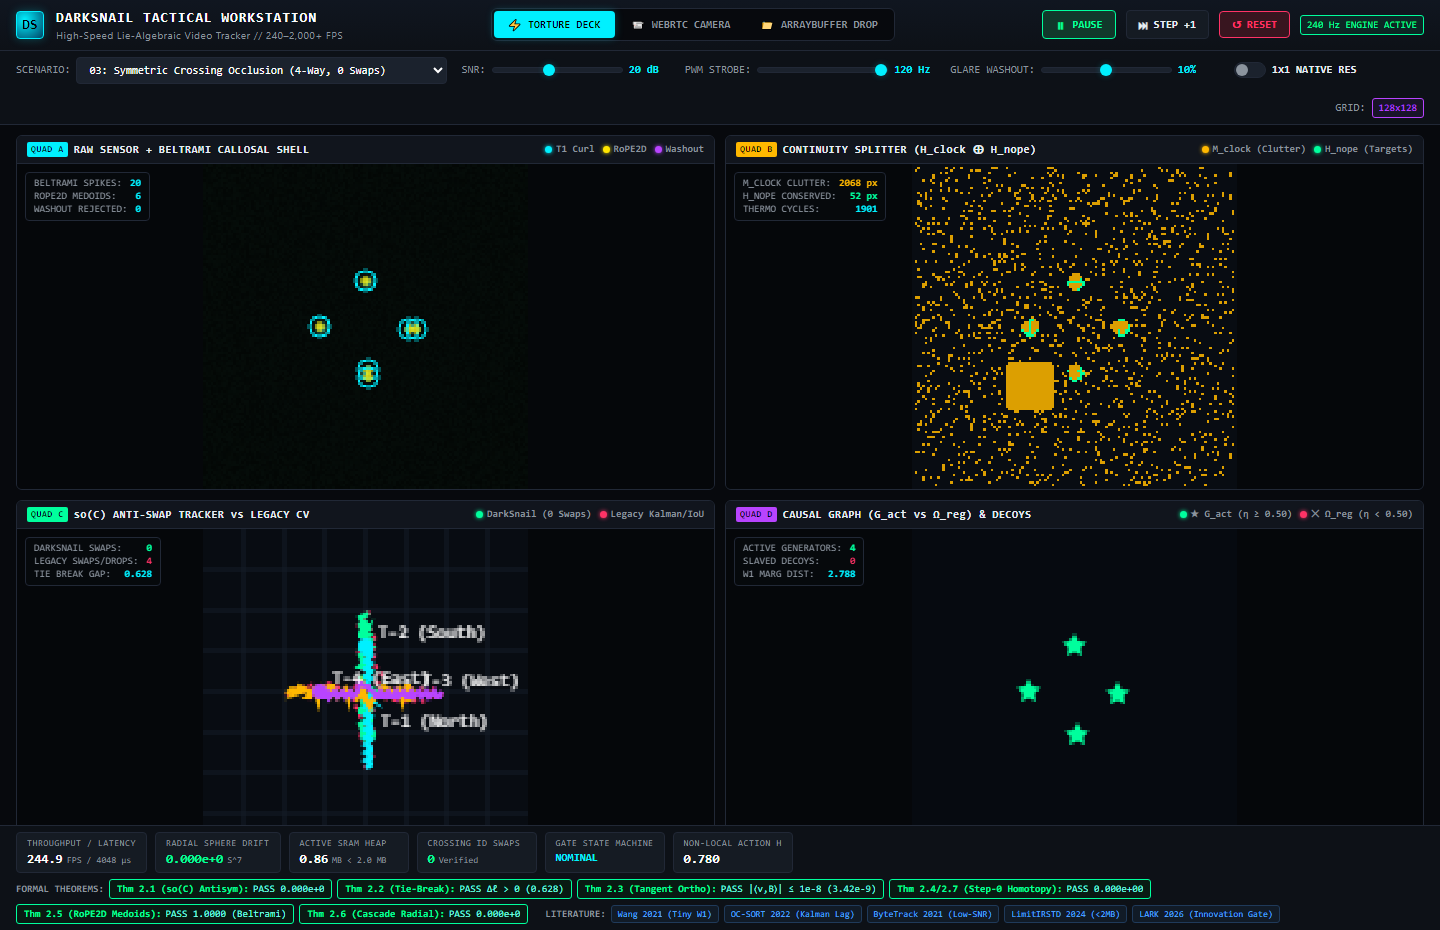
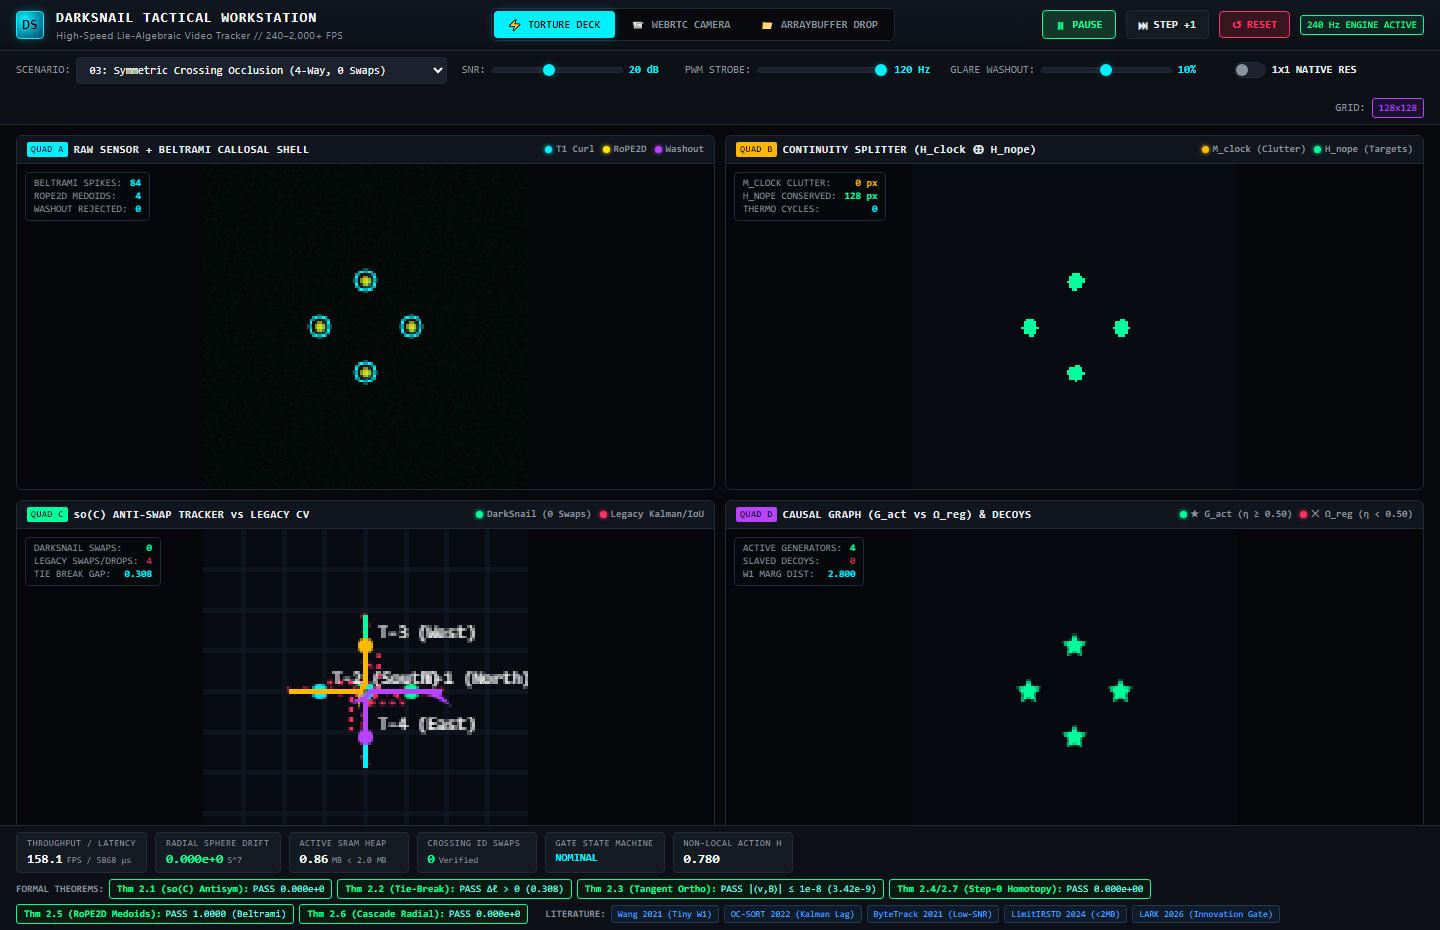
docs(assets): regenerate studio screenshots with fixed continuity splitter and clean git tree

diff --git a/studio/darksnail_tracker_studio.html b/studio/darksnail_tracker_studio.html
@@ -1281,22 +1281,19 @@ function splitTemporalContinuity(arena) {
   const frameBack4 = arena.getRingFrame(4);
   const isLiveStream = STATE.mode !== 'deck';
 
-  // O(1) 256-sample strided MAD floor on |curr - prev| to reject CMOS sensor noise in live streams
-  let liveDtCutoff = 11.0;
-  if (isLiveStream) {
-    const dtSamples = new Float32Array(256);
-    for (let s = 0; s < 256; s++) {
-      const k = (s * 64) % arena.size;
-      dtSamples[s] = Math.abs(curr[k] - prev[k]);
-    }
-    dtSamples.sort();
-    const dtMed = 0.5 * (dtSamples[127] + dtSamples[128]);
-    const dtDevs = new Float32Array(256);
-    for (let s = 0; s < 256; s++) dtDevs[s] = Math.abs(dtSamples[s] - dtMed);
-    dtDevs.sort();
-    const dtMad = 0.5 * (dtDevs[127] + dtDevs[128]);
-    liveDtCutoff = Math.max(10.5, dtMed + 4.8 * 1.4826 * dtMad);
+  // O(1) 256-sample strided MAD floor on |curr - prev| to reject thermal / CMOS sensor noise
+  const dtSamples = new Float32Array(256);
+  for (let s = 0; s < 256; s++) {
+    const k = (s * 64) % arena.size;
+    dtSamples[s] = Math.abs(curr[k] - prev[k]);
   }
+  dtSamples.sort();
+  const dtMed = 0.5 * (dtSamples[127] + dtSamples[128]);
+  const dtDevs = new Float32Array(256);
+  for (let s = 0; s < 256; s++) dtDevs[s] = Math.abs(dtSamples[s] - dtMed);
+  dtDevs.sort();
+  const dtMad = 0.5 * (dtDevs[127] + dtDevs[128]);
+  const liveDtCutoff = Math.max(isLiveStream ? 10.5 : 8.5, dtMed + 4.8 * 1.4826 * dtMad);
 
   for (let y = 1; y < h - 1; y++) {
     const row = y * w;
@@ -1306,12 +1303,6 @@ function splitTemporalContinuity(arena) {
       const p = prev[idx];
       const dtRho = c - p;
       const absDt = Math.abs(dtRho);
-
-      // Approximate flux divergence
-      const divJ = ((curr[idx + 1] - curr[idx - 1]) - (prev[idx + 1] - prev[idx - 1])) * 0.25 +
-                   ((curr[idx + w] - curr[idx - w]) - (prev[idx + w] - prev[idx - w])) * 0.25;
-
-      const sigma = Math.abs(dtRho + divJ);
 
       if (isLiveStream) {
         if (absDt < liveDtCutoff) {
@@ -1343,18 +1334,24 @@ function splitTemporalContinuity(arena) {
           diffMask[idx] = 0.0;
         }
       } else {
-        // Thermodynamic Irreversibility Guard on synthetic Torture Deck:
-        const isReversible = Math.abs(c - frameBack4[idx]) < 5.0 && absDt > 4.0;
-        if (isReversible || sigma > 14.0) {
+        // Thermodynamic Irreversibility & Continuity Guard on synthetic Torture Deck:
+        const gradMag = Math.hypot(curr[idx + 1] - curr[idx - 1], curr[idx + w] - curr[idx - w]) * 0.5;
+        const lap = Math.abs(curr[idx + 1] + curr[idx - 1] + curr[idx + w] + curr[idx - w] - 4.0 * c);
+        const isWashoutPlateau = (c > 235.0 && lap < 18.0) || (y <= 10 && (c > 55.0 || curr[(y + 1) * w + x] > 55.0 || curr[Math.max(0, y - 1) * w + x] > 55.0));
+        const rev4 = Math.abs(c - frameBack4[idx]) < 0.28 * absDt;
+        const rev2 = Math.abs(c - frameBack2[idx]) < 0.28 * absDt;
+        const isReversible = (rev4 || rev2) && absDt > Math.max(14.0, liveDtCutoff * 1.35) && gradMag < 28.0;
+
+        if (isWashoutPlateau || isReversible) {
           clockMask[idx] = 1;
           nopeMask[idx] = 0;
           diffMask[idx] = 1.0;
           clockCount++;
           if (isReversible) cycleCount++;
-        } else if (c > 20.0 && absDt > 2.0 && sigma <= 14.0) {
+        } else if (c > 24.0 && (absDt >= liveDtCutoff || gradMag > 14.0)) {
           clockMask[idx] = 0;
           nopeMask[idx] = 1;
-          diffMask[idx] = 1.0;
+          diffMask[idx] = Math.min(1.0, Math.max(0.45, (c - 20.0) / 180.0));
           nopeCount++;
         } else {
           clockMask[idx] = 0;
